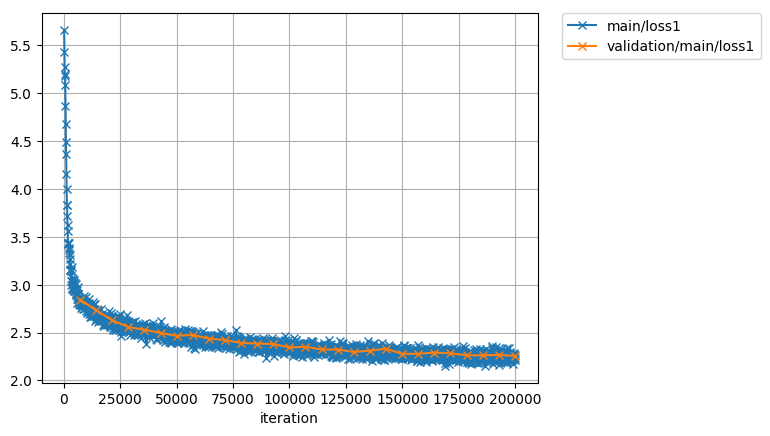
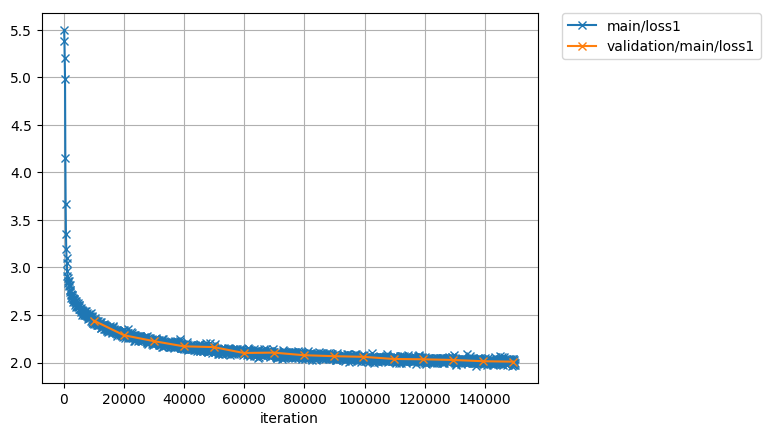
update results
Update images of losses and upload pretrained model.

diff --git a/README.md b/README.md
@@ -2,7 +2,7 @@
 A Chainer implementation of VQ-VAE( https://arxiv.org/abs/1711.00937 ).
 
 # Results
-Trained 165000 iterations on CMU ARCTIC. You can reproduce these results in Google Colaboratory.
+Trained about 63 hours with one 1080Ti (150000 iterations) on VCTK-Corpus. You can download pretrained model from [here](https://drive.google.com/open?id=1Ayy9NbpBoZCj1WVmwHGnUTG_jB2eonVU).
 
 Losses:
 
@@ -12,13 +12,7 @@ Losses:
 
 Audios:
 
-[Input](http://nana-music.com/sounds/037eb33f/)
-
-[Target speaker](http://nana-music.com/sounds/0383457c/)
-
-[Reconstruct(decode with input speaker)](http://nana-music.com/sounds/037eb451/)
-
-[Voice Conversion(decoce with target speaker)](http://nana-music.com/sounds/037eb39a/)
+[demo](https://nana-music.com/playlists/2276008/)
 
 # Requirements
 I trained and generated with
@@ -27,7 +21,7 @@ I trained and generated with
 - chainer(4.0.0b3)
 - librosa(0.5.1)
 
-And now you can try it on Google Colaboratory. You don't need install chainer/librosa or buy GPUs. Check [this](Colaboratory/README.md).
+And now you can try it on Google Colaboratory. You don't need install chainer/librosa in your local or buy GPUs. Check [this](Colaboratory/README.md).
 # Usage
 ## download dataset
 You can download VCTK-Corpus(en) from [here](http://homepages.inf.ed.ac.uk/jyamagis/page3/page58/page58.html). And you can download CMU-ARCTIC(en)/voice-statistics-corpus(ja) very easily via [my repository](https://github.com/dhgrs/download_dataset).
@@ -40,8 +34,6 @@ You can download VCTK-Corpus(en) from [here](http://homepages.inf.ed.ac.uk/jyama
     - Learning rate.
 - ema_mu
     - Rate of exponential moving average. If this is greater than 1 doesn't apply.
-- update_encoder
-    - Update encoder or not. If you use small dataset like CMU-ARCTIC(en)/voice-statistics-corpus(ja), the encoder of VQ-VAE may cause over-fitting. So after about 150-200k iterations, set this parameter False and restart training.
 - trigger
     - How many times you update the model. You can set this parameter like as (`<int>`, 'iteration') or (`<int>`, 'epoch')
 - evaluate_interval
@@ -56,14 +48,24 @@ You can download VCTK-Corpus(en) from [here](http://homepages.inf.ed.ac.uk/jyama
     - The root directory of training dataset.
 - dataset
     - The architecture of the directory of training dataset. Now this parameter supports `VCTK`, `ARCTIC` and 'vs'.
+- split_seed
+    - A seed for splitting dataset into train and validation.
+
+### parameters of preprocessing
 - sr
     - Sampling rate. If it's different from input file, be resampled by librosa.
-- quantize
-    - If `use_logistic` is `True` it should be 2 ** 16. If `False` it should be 256.
+- res_type
+    - The resampling algorithm used in librosa.
 - top_db
     - The threshold db for triming silence.
+- input_dim
+    - The input channels of wave. If it is `1`, mu-law is not applied. Else mu-law is applied.
+- quantize
+    - The number for quantize.
 - length
     - How many samples used for training.
+- use_logistic
+    - Use mixture of logistics or not.
 
 ### parameters of VQ
 - d
@@ -76,7 +78,7 @@ You can download VCTK-Corpus(en) from [here](http://homepages.inf.ed.ac.uk/jyama
     - If you want to make network like dilations [1, 2, 4, 1, 2, 4] set `n_loop` as `2`.
 - n_layer
     - If you want to make network like dilations [1, 2, 4, 1, 2, 4] set `n_layer` as `3`.
-- n_filter
+- filter_size
     - The filter size of each dilated convolution.
 - residual_channels
     - The number of input/output channels of residual blocks.
@@ -84,16 +86,14 @@ You can download VCTK-Corpus(en) from [here](http://homepages.inf.ed.ac.uk/jyama
     - The number of output channels of causal dilated convolution layers. This is splited into tanh and sigmoid so the number of hidden units is half of this number.
 - skip_channels
     - The number of channels of skip connections and last projection layer.
-- use_logistic
-    - If `True` use mixture of logistics.
 - n_mixture
     - The number of logistic distribution. It is used only `use_logistic` is `True`.
 - log_scale_min
     - The number for stability. It is used only `use_logistic` is `True`.
-- embed_channels
+- global_condition_dim
     - The dimension of speaker embeded-vector.
-- use_deconv
-    - If `True` use deconvolution layer. Else repeat quantized vector.
+- local_condition_dim
+    - The dimension of local contioning vectors.
 - dropout_zero_rate
     - The rate of `0` in dropout. If `0` doesn't apply dropout.
 
@@ -104,6 +104,8 @@ You can download VCTK-Corpus(en) from [here](http://homepages.inf.ed.ac.uk/jyama
 ### parameters of losses
 - use_ema
     - If `True` use the value of exponential moving average.
+- apply_dropout
+    - If `True` apply dropout.
 
 
 ## training
